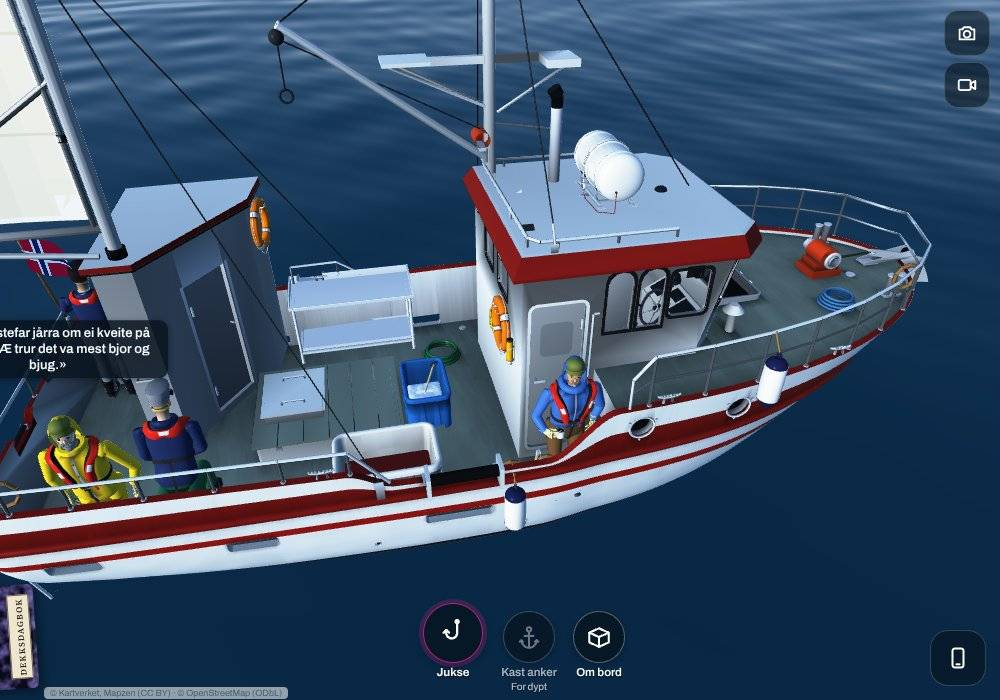
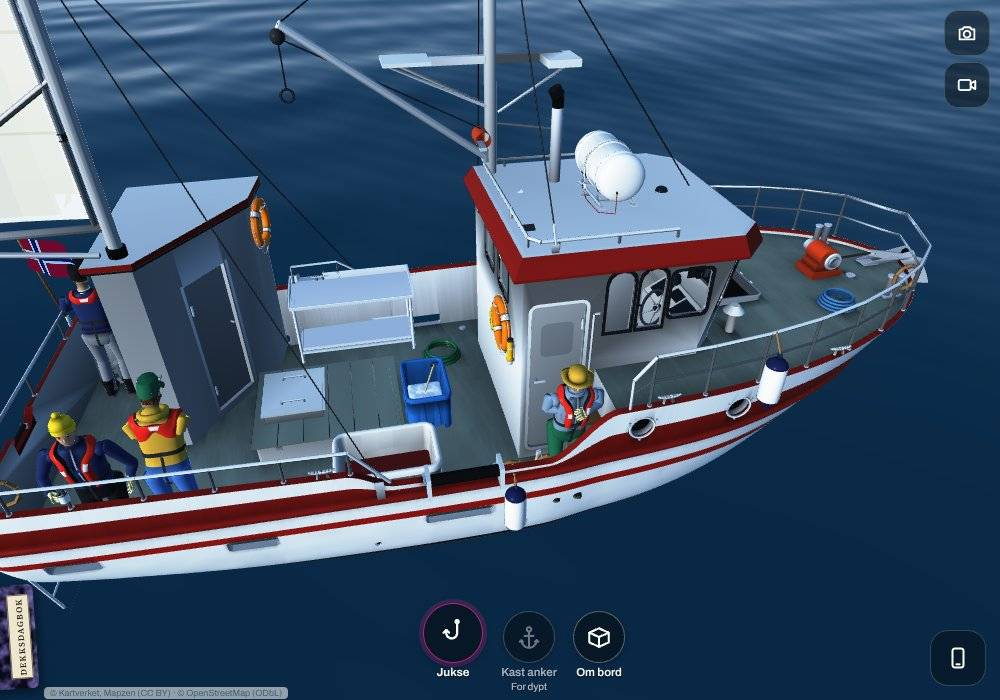
OB14: nærbildene på nytt etter rettingene, og hettebildet
Claude-Session: https://claude.ai/code/session_013BxXiCJHb4hAPEvQYzAKW3

diff --git a/docs/planer/om-bord.md b/docs/planer/om-bord.md
@@ -565,11 +565,11 @@ OB14 (steg 92, Jonas' økt, grenen `claude/nice-edison-lxafdp`) tok F12, F13 og 
 | `sjark` | 8 | 11 | Tre samlet om arbeidet ved sløyebordet, ikke én alene akter; hvitt vann ved bordet fra siden | De to ved bordet overlapper fra kameraet; matpausen som før (kokeplate: de spiser inne); kulda vises nesten ikke i den størrelsen |
 | `breisjark` | 8 | 10 | Strålen går ikke lenger mot folkene akter; to står sammen i kulda | Verken stråle, vann eller kost å se i bildene ovenfra; folkene «står bare»; matpausen uleselig |
 
-Evalueringen sa selv at bildene fra `tests/ombord.py` (640×360) er for små til å bedømme matpakka og koppen, hetta og lua, floken og hvor slangen peker på sjarkene (kameraet står bak redskapsrommet). Nærbildene i 1000×700 viser dem: `sjark_spyling_naert.jpg` (én spyler, vannet på dørken, én skrubber, skipperen slår floke), `snekke_spyling_naert.jpg` og `sjark_kulde_naert.jpg` (hettene). Jonas bør se dette på nettbrettet (`docs/spill-dette/92.md`). Det evalueringen fant og OB14 ikke har rettet, står i backloggen under OB14.
+Evalueringen sa selv at bildene fra `tests/ombord.py` (640×360) er for små til å bedømme matpakka og koppen, hetta og lua, floken og hvor slangen peker på sjarkene (kameraet står bak redskapsrommet). Nærbildene i 1000×700 viser dem: `sjark_spyling_naert.jpg` (én spyler, vannet på dørken, én skrubber ved benken, to står i kulda ved rekka), `snekke_spyling_naert.jpg` (slangen fra trommelen, skipperen gnir hendene), `sjark_kulde_naert.jpg` (én gnir hendene; dette mannskapet har sydvest, hjelm og lue, så ingen hette) og `sjark_hette_naert.jpg` (hettene oppe på to i oljehyre; tatt underveis, før den som skrubber, ble flyttet ut av strålen). Jonas bør se dette på nettbrettet (`docs/spill-dette/92.md`). Det evalueringen fant og OB14 ikke har rettet, står i backloggen under OB14.
 
 **Forslag til K6 per båt etter OB14:** F12–F14 har alvor B og C, så taket på rundt 60 % for åpne A-funn flyttes ikke av dette steget. Forslaget er uendret K6 for alle åtte (ingen poeng opp på grunnlag av bilder evalueringen ikke kunne lese), og at rundene som setter karakteren per båt (OB10, OB11, OB13 og de neste), tar med rydding, mat og kulde i sine egne bilder på nært hold.
 
-Bildene før og etter står i `docs/okter/2026-11-11-ob14/`: rydding (ovenfra og fra siden), mat og hvile, og kulda for snekka, havsjarken og breisjarken, i begge formater, og tre nærbilder.
+Bildene før og etter står i `docs/okter/2026-11-11-ob14/`: rydding (ovenfra og fra siden), mat og hvile, og kulda for snekka, havsjarken og breisjarken, i begge formater, og fire nærbilder.
 
 ## 5. Båten i sjøen
 
